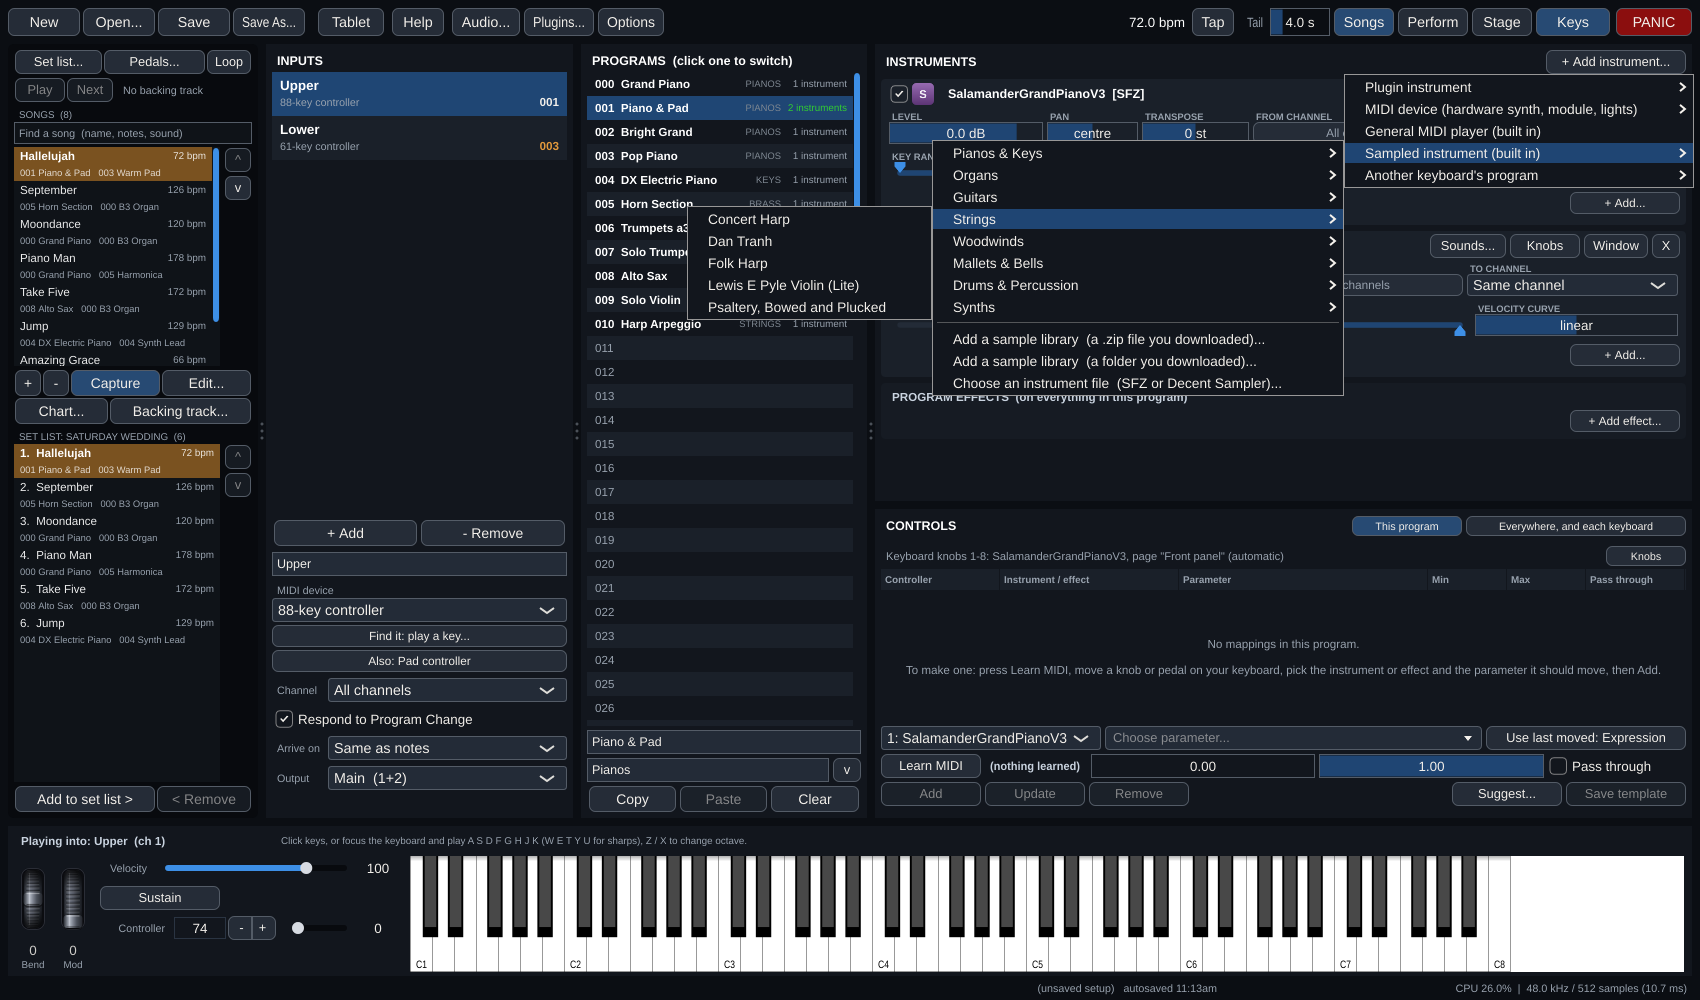
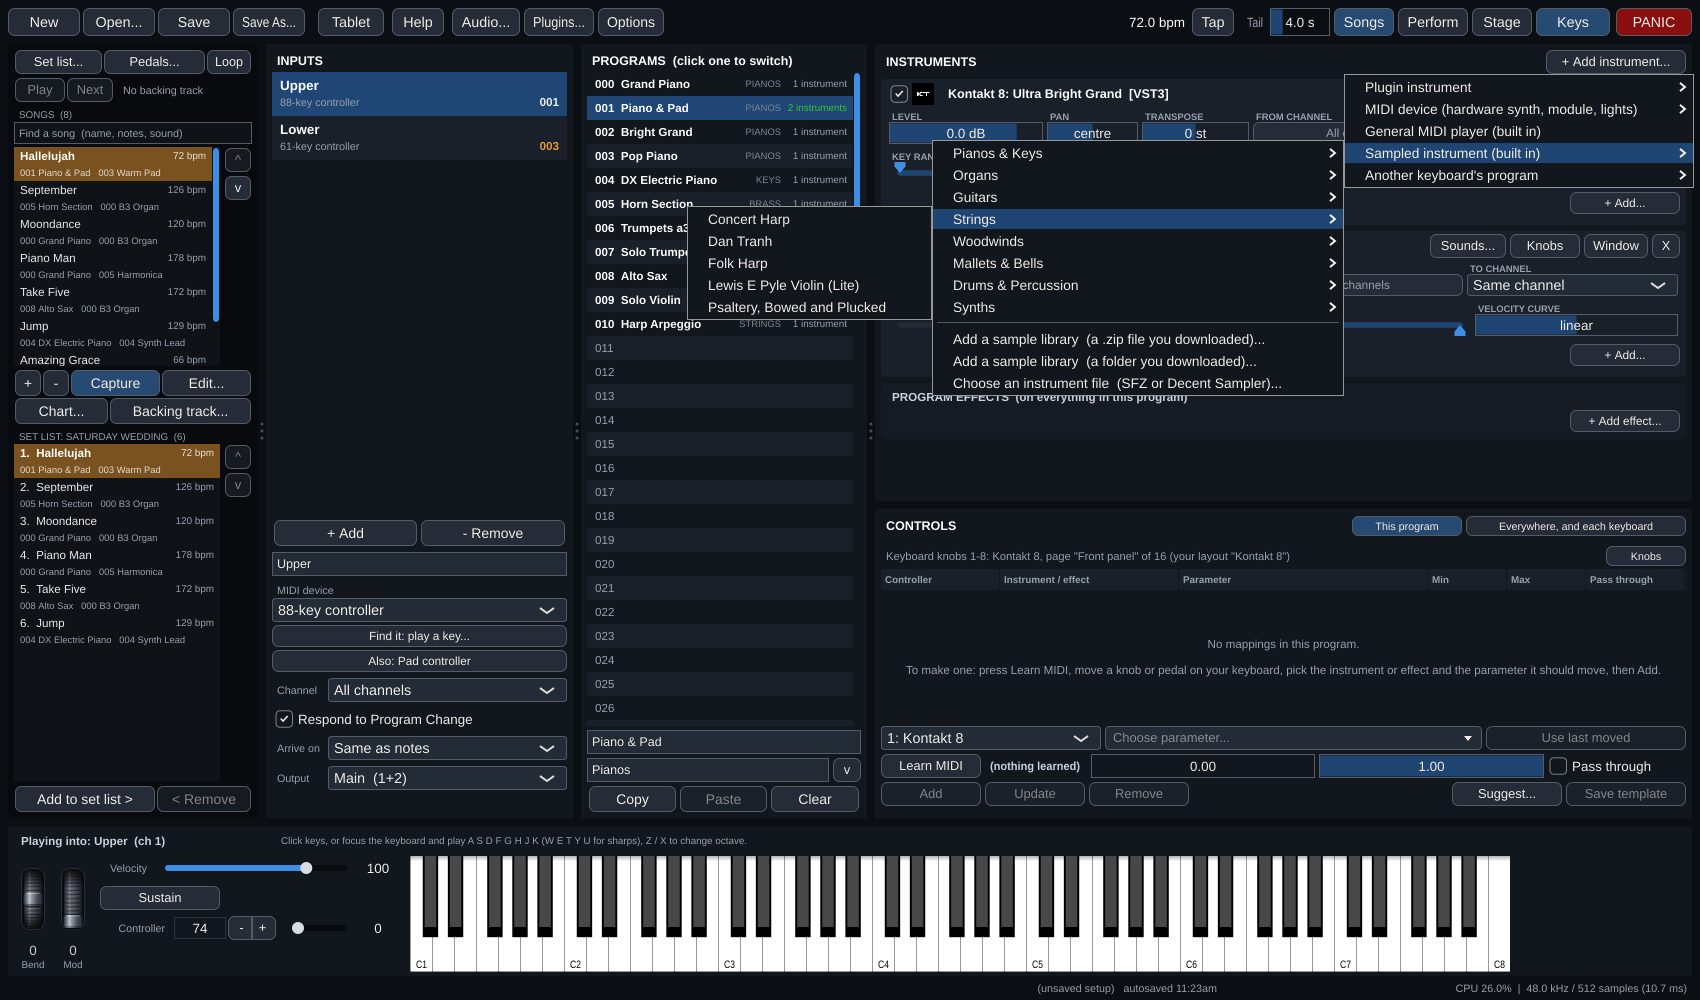
README: the main screenshot plays Kontakt, and the keyboard ends at C8

diff --git a/README.md b/README.md
@@ -13,7 +13,7 @@ with every knob, drawbar and menu live under your finger. Pull a drawbar on the
 tablet and the organ on stage moves.
 
 <p align="center">
-  <img src="docs/images/stagerig.png" alt="StageRig: songs and a wedding set list with tempos, two keyboards (the upper one with a pad controller added), a program list grouped by kind, and a Piano &amp; Pad program: a built-in sampled grand piano with a Windows synth pad layered from C3 up, 9 dB down" width="900">
+  <img src="docs/images/stagerig.png" alt="StageRig: songs and a wedding set list with tempos, two keyboards (the upper one with a pad controller added), a program list grouped by kind, and a Piano &amp; Pad program: Kontakt 8 (a Windows plugin) playing a grand piano, with a Windows synth pad layered from C3 up, 9 dB down" width="900">
 </p>
 
 StageRig exists because the live hosts keyboard players rely on -- MainStage,
